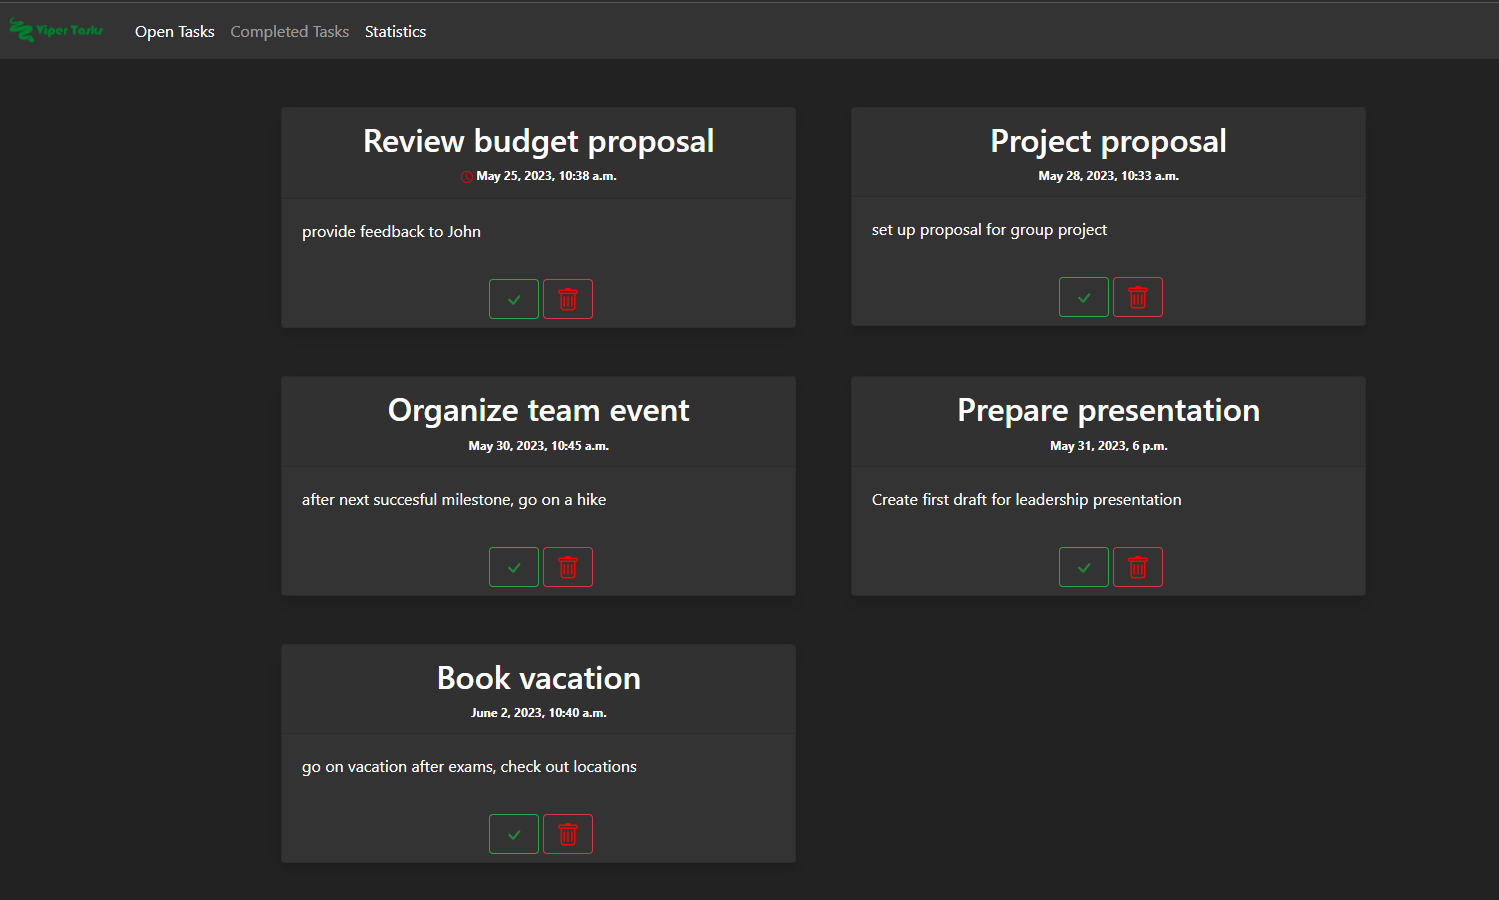
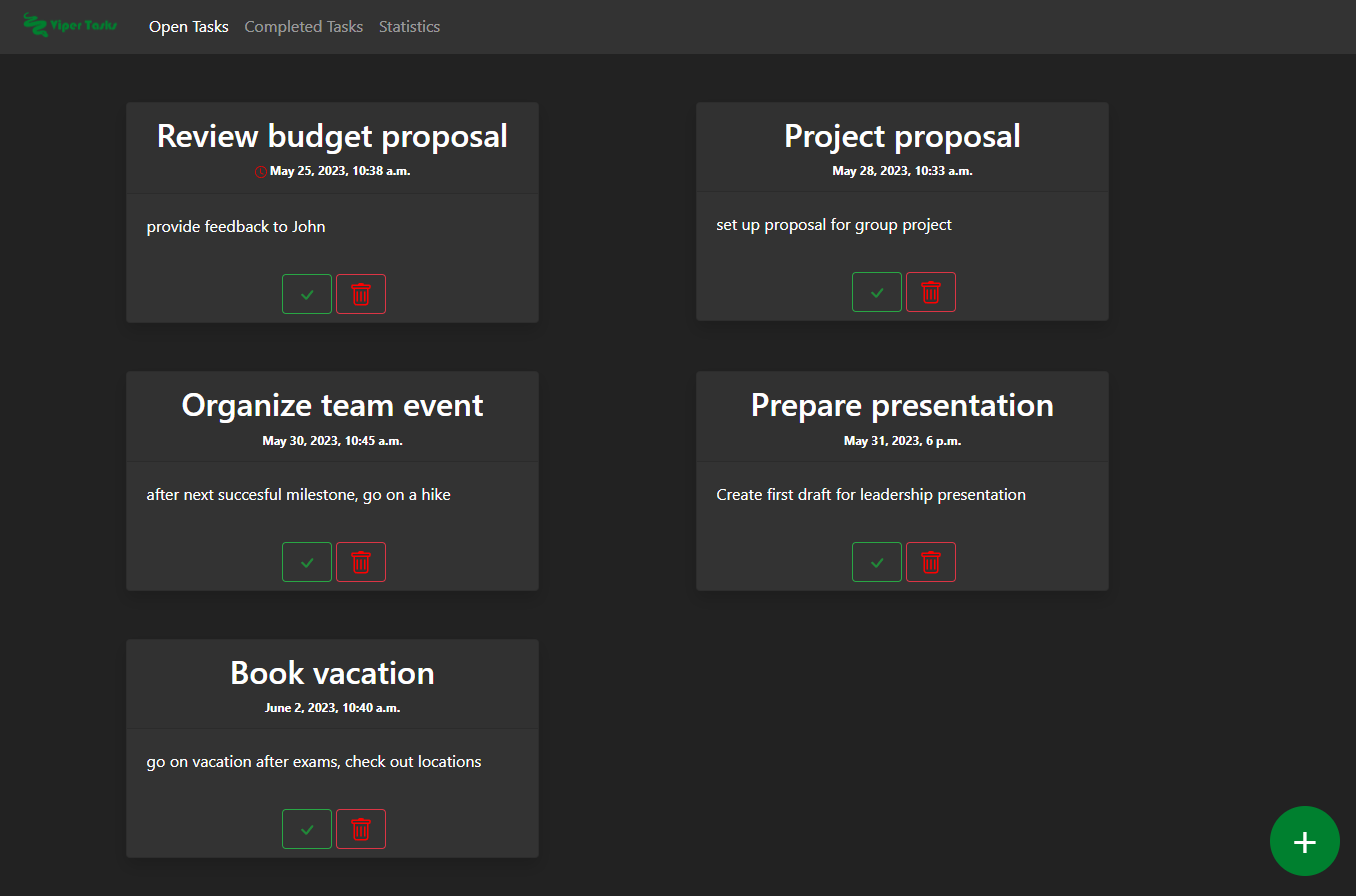
add sample screenshots

diff --git a/README.md b/README.md
@@ -33,6 +33,29 @@ In addition, we created a little dashboard, where we visualize various statistic
 
 This is achieved by using the [Chart.js](https://www.chartjs.org/) library, which is a javascript library for creating charts. The data is retrieved from the backend using AJAX requests.
 
+Sample screenshots are shown below:
+
+Login:
+
+![login.PNG](img/login.PNG)
+
+List of open tasks:
+
+![open_tasks.PNG](img/open_tasks.PNG)
+
+Adding a task:
+
+![add_task.PNG](img/add_task.PNG)
+
+
+Creation date statistics:
+
+![creation_rate.PNG](img/creation_rate.PNG)
+
+Completions per day:
+
+![tasks_completed_per_day.PNG](img/tasks_completed_per_day.PNG)
+
 ## Code
 
 The code for the application can be found in the `vipertasks/tasks` directory. The `static` directory contains the static files (e.g. css, javascript, images) and the `templates` directory contains the html templates. 
